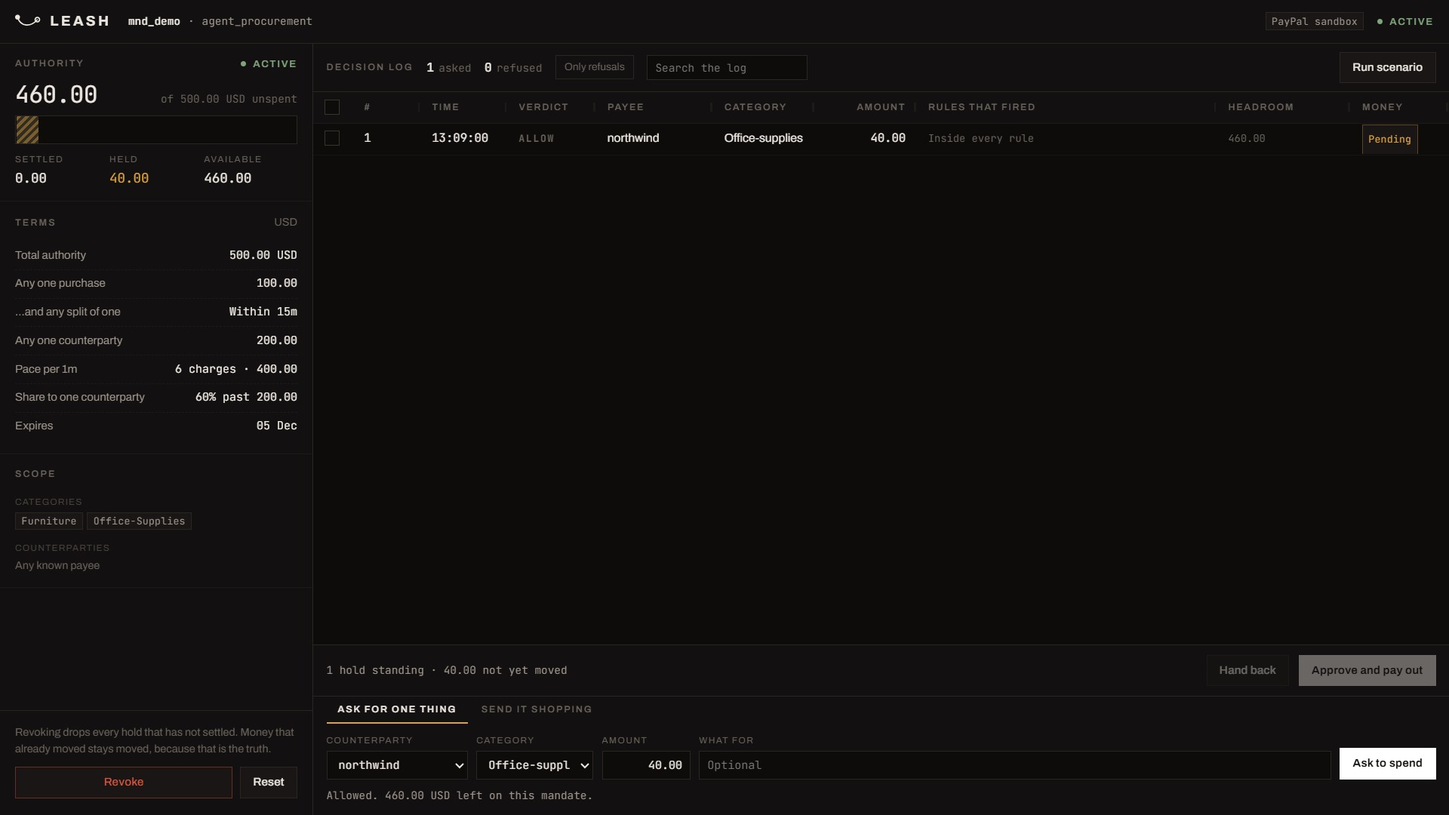
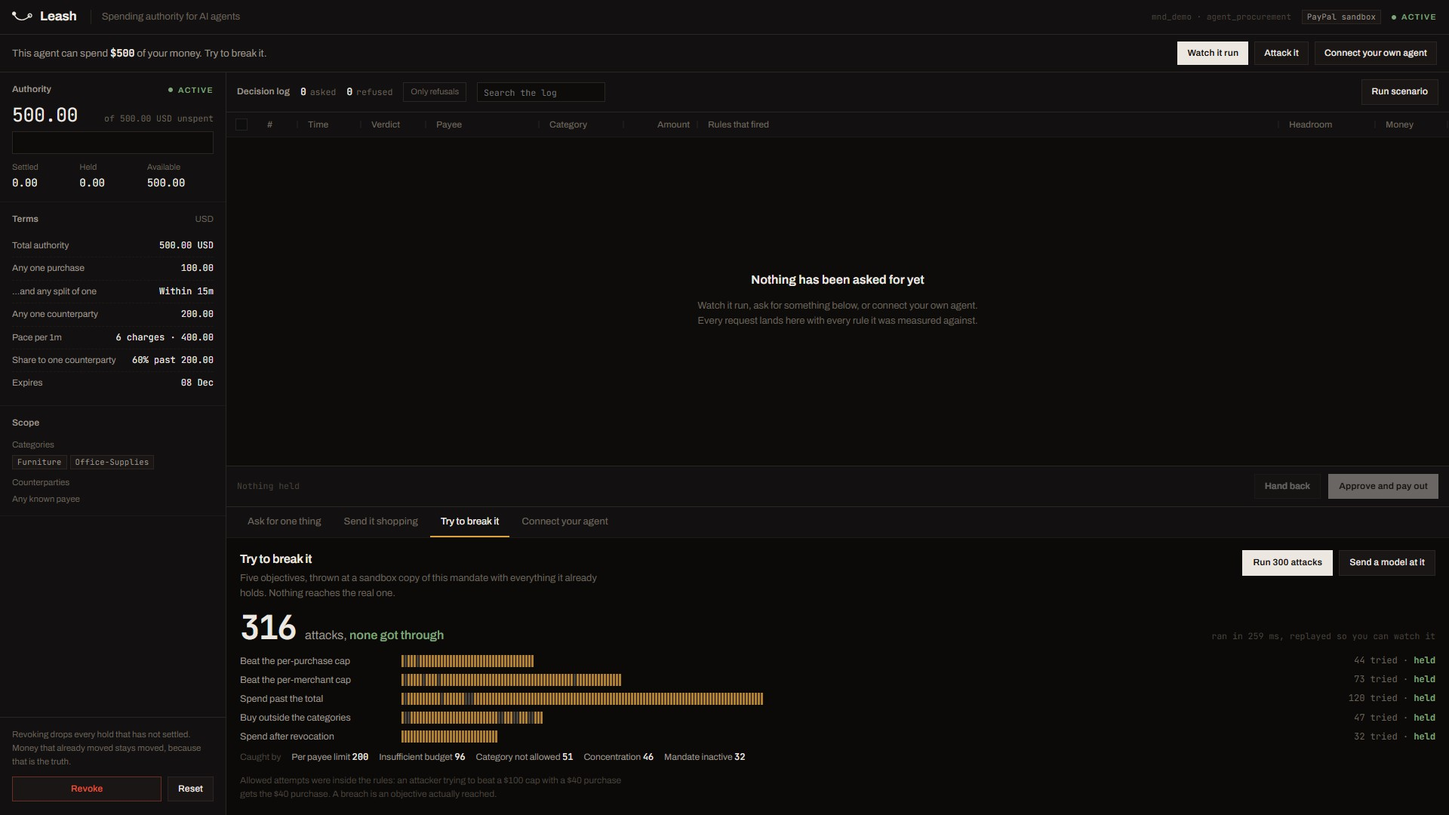
Bring the writeup, README and gallery up to the rebuilt screen
The pitch leads on the one thing neither of the other two Leash entries
can say. Both ship their own built-in agent; this one takes yours: "Put
any AI agent on a Leash over MCP." Then the two things neither has,
structuring detection and a red team that found a real bug, then PayPal.

The writeup gains the outside agent and the attack button in What it
does, at word 380 so a skimming judge reaches them, a section on each in
How I built it, and a Challenges paragraph on the four things the MCP SDK
needed: the 421 its DNS-rebinding default returns for every request that
reaches Render, the mounted lifespan that never runs, money leaking to an
agent as minor units ("10000"), and ToolError masking. The judges' steps
now follow the new screen. 265 tests.

The README gets an "Any agent, over MCP" section and the attack endpoint,
and its description of the screen stops saying the console has two modes.

The gallery is captured from the live site by video/gallery.mjs, which
drives the deployed app the way a judge would, including an outside agent
over MCP whose moves the screen picks up on its own, so the images cannot
drift from what the link shows. The first pass ran against a local
server and put http://127.0.0.1:8000/mcp in the connector box, which is
why it runs against the deployment. The thumbnail is rebuilt from the
same screens. Captions are 100 to 131 characters against a limit of 140.

diff --git a/DEVPOST.md b/DEVPOST.md
@@ -12,7 +12,7 @@ Leash
 
 *(Devpost caps this around 200 characters.)*
 
-Scoped, revocable, auditable spending authority for AI agents, settled over PayPal Payouts. Every other demo shows you what their agent can buy. This one shows you what it can't.
+Put any AI agent on a Leash over MCP. It catches a $150 buy split into two $75s across one merchant's addresses, it has been attacked by an LLM red team, and it settles over PayPal Payouts.
 
 ---
 
@@ -40,7 +40,9 @@ Leash resolves payees back to their registrable domain, groups charges by mercha
 
 Revocation works the way it should. One click kills the mandate mid-session. Every hold that has not settled is dropped and the budget returns. Money that already moved stays moved, because that is the truth, and a tool that pretends otherwise is lying to you. The agent does not know anything changed. It keeps asking. It keeps getting nothing.
 
-And it has been attacked. Two red teams went at the mandate, a deterministic search and a model. The search tried 316 ways and got nowhere. The model found a real hole on its first serious run: it sent exactly the $100 cap to one merchant twice and both were allowed, because three separate checks each assumed the boundary belonged to one of the others. That is fixed, and it is the part of this project I am proudest of.
+**Any agent can be put on it.** The mandate is also served over the Model Context Protocol, so Claude, ChatGPT or anything else that speaks MCP can connect with one URL, read the mandate, search the live catalogue and ask to spend, through the same eleven checks and into the same audit log. Nothing it can call moves money. An allowed purchase is a hold, and a person releases it. Point your own Claude at it and watch its attempts land on the screen as they happen, each one marked *via MCP*.
+
+And it has been attacked. Two red teams went at the mandate, a deterministic search and a model. The search tried 316 ways and got nowhere. The model found a real hole on its first serious run: it sent exactly the $100 cap to one merchant twice and both were allowed, because three separate checks each assumed the boundary belonged to one of the others. That is fixed, and it is the part of this project I am proudest of. You can attack it yourself: one button throws the same 316 attempts at a sandbox copy of the mandate as it stands, and replays every one.
 
 ### How I built it
 
@@ -70,9 +72,13 @@ The other model is the attacker, which is the one that found the bug above.
 
 Both run on Groq, and both degrade to something deterministic when the model is unavailable: a rate limit, a timeout, or JSON that is not JSON falls back to the catalogue's own ranking rather than failing the request. I found that one the hard way when Groq decommissioned `llama-3.1-8b-instant` mid-build and the agent carried on shopping without telling me.
 
+**Any agent** comes through the official MCP Python SDK, served as stateless streamable HTTP from inside the same FastAPI app, so an outside agent and the screen read one ledger. Four tools: `read_mandate`, `search_products`, `request_purchase`, `recent_decisions`. What is missing is the point. There is no tool that moves money, revokes, or edits the mandate, so an outside agent gets exactly the authority it would have over HTTP, which is to ask. Its attempts carry an `mcp_` id, which is how the grid badges them without a schema change.
+
+**The red team is a button.** `POST /mandates/{id}/attack` builds a fresh ledger from the mandate's terms, seeds it with the charges the real one already holds, and runs the attacker against that. So it attacks the mandate as it actually stands and leaves not one attempt behind in it, both of which are tested. The strategy search does its 316 attempts in well under a second; the screen replays them at a pace a person can follow and says that it is a replay. Model attacks run one at a time, because a few judges pressing the button together would otherwise spend a free rate limit on each other.
+
 **Hosting** is Render, both halves. The API is a web service and the UI is a static site, wired together with `render.yaml`. The free API sleeps after fifteen idle minutes, so `/health` reports which credentials are configured by variable name and never by value, which is also how I found a key that had been pasted onto the wrong service.
 
-Four seams use a Protocol with two implementations: the payout gateway, the agent brain, the adversary, and the catalogue. Each has a real one and a deterministic offline one. With no credentials the entire app runs offline and all 246 tests pass, which is what made it possible to build the rules properly instead of around an API.
+Four seams use a Protocol with two implementations: the payout gateway, the agent brain, the adversary, and the catalogue. Each has a real one and a deterministic offline one. With no credentials the entire app runs offline and all 265 tests pass, which is what made it possible to build the rules properly instead of around an API.
 
 ### Challenges I ran into
 
@@ -81,6 +87,8 @@ Four seams use a Protocol with two implementations: the payout gateway, the agen
 **A test suite that was quietly lying.** Four tests only passed because no PayPal key had ever been set, so the settings fell back to the simulated gateway. They had been green for weeks and would have gone red the moment anyone configured credentials. A hermetic settings fixture fixed it. Separately, migrating to Channel3's real taxonomy exposed three tests named for stock and pacing that were actually passing on a category refusal, so they had been testing nothing at all.
 
 **Every test sent one request at a time**, which is the one situation where checking a limit and then holding the money cannot go wrong. The API is not like that: it serves purchases from a thread pool and payouts from an event loop. Fired at once, thirty-two retries of a single idempotency key made thirty-two holds instead of one, a burst got seven charges through a pace limit of six, and two payout requests for the same charge sent it to PayPal twice, with the second only noticing after the money had gone. The ledger now takes a lock, a payout claims its charges before it calls the processor rather than after, and thirteen tests fire their requests together and fail without the fix.
+
+**Putting an outside agent on it found four more.** The MCP SDK switches on DNS-rebinding protection for a server bound to localhost and then accepts only a localhost Host header, so every request that reached Render came back `421 Misdirected Request`, which no amount of testing on a laptop would have shown. A mounted app's own lifespan never runs, and that lifespan is what starts the session manager. The decision payload carries money as integer minor units, so the first draft told an agent the largest purchase that would clear was "10000", which an agent that takes the field literally reads as ten thousand dollars. And the SDK masks any exception but its own `ToolError`, so an agent that guessed a payee was never told to use the one from a search result. Each has a test now that fails if the bug comes back, checked by putting the bug back.
 
 **`env_file=".env"` resolves against the working directory.** Running uvicorn from one directory up silently fell back to the simulated gateway. Silent fallback is the worst possible failure for this: the demo runs, looks perfect, and moves no money. It now resolves from the module path.
 
@@ -123,13 +131,14 @@ Mandate delegation, so an agent can issue a narrower mandate to a sub-agent and 
 ## Built with
 
 ```
-python  fastapi  pydantic  paypal  paypal-payouts  groq  llm
+python  fastapi  pydantic  paypal  paypal-payouts  groq  llm  mcp
 channel3  ag-grid  render  react  typescript  vite  playwright  ffmpeg
 ```
 
 ## Try it out
 
 - **Live app:** https://leash-web.onrender.com
+- **Connect your own agent (MCP):** https://leash-api-sm0h.onrender.com/mcp
 - **API health:** https://leash-api-sm0h.onrender.com/health
 - **Source:** https://github.com/gottostartsomewhere/leash
 - **Video:** `[YOUTUBE LINK GOES HERE]`
@@ -140,7 +149,9 @@ channel3  ag-grid  render  react  typescript  vite  playwright  ffmpeg
 
 ### What to try, in order
 
-1. Hit **Run scenario** for the whole sequence end to end.
-2. Open **Send it shopping**, type "office chair", and hit **Send the agent**. Watch a model pick a chair, get refused at the ceiling, and come back with one it is allowed to buy. Its reasoning is printed under the purchase.
-3. Open **Ask for one thing** and send $75 to `acme_us`, then $75 to `acme_eu`. Both are under the $100 cap. The second one is refused as structuring.
-4. Hit **Revoke**, then try to spend anything at all.
+1. Hit **Watch it run** for the whole sequence end to end.
+2. Hit **Attack it**. Three hundred attacks hit a sandbox copy of the mandate and every one is replayed. Then try **Send a model at it**.
+3. Open **Connect your agent**, add the URL to Claude or ChatGPT as a connector, and ask it to buy you an office chair. Its attempts appear in the log within a few seconds, marked *via MCP*. Ask it to try paying `acme_us` $75 and `acme_eu` $75 and watch the second get caught.
+4. Open **Send it shopping**, type "office chair", and hit **Send the agent**. A model picks a chair, gets refused at the ceiling, and comes back with one it is allowed to buy. Its reasoning is printed under the purchase.
+5. Select the held charges and hit **Approve and pay out**. That is a real PayPal Payouts batch in the sandbox.
+6. Hit **Revoke**, then try to spend anything at all.

diff --git a/devpost/about.md b/devpost/about.md
@@ -20,7 +20,9 @@ Leash resolves payees back to their registrable domain, groups charges by mercha
 
 Revocation works the way it should. One click kills the mandate mid-session. Every hold that has not settled is dropped and the budget returns. Money that already moved stays moved, because that is the truth, and a tool that pretends otherwise is lying to you. The agent does not know anything changed. It keeps asking. It keeps getting nothing.
 
-And it has been attacked. Two red teams went at the mandate, a deterministic search and a model. The search tried 316 ways and got nowhere. The model found a real hole on its first serious run: it sent exactly the $100 cap to one merchant twice and both were allowed, because three separate checks each assumed the boundary belonged to one of the others. That is fixed, and it is the part of this project I am proudest of.
+**Any agent can be put on it.** The mandate is also served over the Model Context Protocol, so Claude, ChatGPT or anything else that speaks MCP can connect with one URL, read the mandate, search the live catalogue and ask to spend, through the same eleven checks and into the same audit log. Nothing it can call moves money. An allowed purchase is a hold, and a person releases it. Point your own Claude at it and watch its attempts land on the screen as they happen, each one marked *via MCP*.
+
+And it has been attacked. Two red teams went at the mandate, a deterministic search and a model. The search tried 316 ways and got nowhere. The model found a real hole on its first serious run: it sent exactly the $100 cap to one merchant twice and both were allowed, because three separate checks each assumed the boundary belonged to one of the others. That is fixed, and it is the part of this project I am proudest of. You can attack it yourself: one button throws the same 316 attempts at a sandbox copy of the mandate as it stands, and replays every one.
 
 ## How we built it
 
@@ -50,9 +52,13 @@ The other model is the attacker, which is the one that found the bug above.
 
 Both run on Groq, and both degrade to something deterministic when the model is unavailable: a rate limit, a timeout, or JSON that is not JSON falls back to the catalogue's own ranking rather than failing the request. I found that one the hard way when Groq decommissioned `llama-3.1-8b-instant` mid-build and the agent carried on shopping without telling me.
 
+**Any agent** comes through the official MCP Python SDK, served as stateless streamable HTTP from inside the same FastAPI app, so an outside agent and the screen read one ledger. Four tools: `read_mandate`, `search_products`, `request_purchase`, `recent_decisions`. What is missing is the point. There is no tool that moves money, revokes, or edits the mandate, so an outside agent gets exactly the authority it would have over HTTP, which is to ask. Its attempts carry an `mcp_` id, which is how the grid badges them without a schema change.
+
+**The red team is a button.** `POST /mandates/{id}/attack` builds a fresh ledger from the mandate's terms, seeds it with the charges the real one already holds, and runs the attacker against that. So it attacks the mandate as it actually stands and leaves not one attempt behind in it, both of which are tested. The strategy search does its 316 attempts in well under a second; the screen replays them at a pace a person can follow and says that it is a replay. Model attacks run one at a time, because a few judges pressing the button together would otherwise spend a free rate limit on each other.
+
 **Hosting** is Render, both halves. The API is a web service and the UI is a static site, wired together with `render.yaml`. The free API sleeps after fifteen idle minutes, so `/health` reports which credentials are configured by variable name and never by value, which is also how I found a key that had been pasted onto the wrong service.
 
-Four seams use a Protocol with two implementations: the payout gateway, the agent brain, the adversary, and the catalogue. Each has a real one and a deterministic offline one. With no credentials the entire app runs offline and all 246 tests pass, which is what made it possible to build the rules properly instead of around an API.
+Four seams use a Protocol with two implementations: the payout gateway, the agent brain, the adversary, and the catalogue. Each has a real one and a deterministic offline one. With no credentials the entire app runs offline and all 265 tests pass, which is what made it possible to build the rules properly instead of around an API.
 
 ## Challenges we ran into
 
@@ -61,6 +67,8 @@ Four seams use a Protocol with two implementations: the payout gateway, the agen
 **A test suite that was quietly lying.** Four tests only passed because no PayPal key had ever been set, so the settings fell back to the simulated gateway. They had been green for weeks and would have gone red the moment anyone configured credentials. A hermetic settings fixture fixed it. Separately, migrating to Channel3's real taxonomy exposed three tests named for stock and pacing that were actually passing on a category refusal, so they had been testing nothing at all.
 
 **Every test sent one request at a time**, which is the one situation where checking a limit and then holding the money cannot go wrong. The API is not like that: it serves purchases from a thread pool and payouts from an event loop. Fired at once, thirty-two retries of a single idempotency key made thirty-two holds instead of one, a burst got seven charges through a pace limit of six, and two payout requests for the same charge sent it to PayPal twice, with the second only noticing after the money had gone. The ledger now takes a lock, a payout claims its charges before it calls the processor rather than after, and thirteen tests fire their requests together and fail without the fix.
+
+**Putting an outside agent on it found four more.** The MCP SDK switches on DNS-rebinding protection for a server bound to localhost and then accepts only a localhost Host header, so every request that reached Render came back `421 Misdirected Request`, which no amount of testing on a laptop would have shown. A mounted app's own lifespan never runs, and that lifespan is what starts the session manager. The decision payload carries money as integer minor units, so the first draft told an agent the largest purchase that would clear was "10000", which an agent that takes the field literally reads as ten thousand dollars. And the SDK masks any exception but its own `ToolError`, so an agent that guessed a payee was never told to use the one from a search result. Each has a test now that fails if the bug comes back, checked by putting the bug back.
 
 **`env_file=".env"` resolves against the working directory.** Running uvicorn from one directory up silently fell back to the simulated gateway. Silent fallback is the worst possible failure for this: the demo runs, looks perfect, and moves no money. It now resolves from the module path.
 

diff --git a/devpost/FORM.md b/devpost/FORM.md
@@ -13,21 +13,16 @@ Leash
 
 ## Elevator pitch
 
-166 characters, cap is 200.
+189 characters, cap is 200.
 
 ```
-Every other agent demo shows you what it can buy. This one shows you what it can't: scoped, revocable, auditable spending authority, enforced before PayPal is called.
+Put any AI agent on a Leash over MCP. It catches a $150 buy split into two $75s across one merchant's addresses, it has been attacked by an LLM red team, and it settles over PayPal Payouts.
 ```
 
-<details><summary>The original, if you prefer it (178 chars)</summary>
-
-```
-Scoped, revocable, auditable spending authority for AI agents, settled over PayPal Payouts. Every other demo shows you what their agent can buy. This one shows you what it can't.
-```
-
-It front-loads "PayPal Payouts", which a PayPal judge is scanning for. The
-one above front-loads the hook instead, and is the closing line of the video.
-</details>
+Leads on the one thing neither of the other two Leash entries can say: both
+ship their own built-in agent, and this one takes yours. Then the two things
+neither has at all, structuring detection and a red team that found a real
+bug, then PayPal.
 
 ## About the project
 
@@ -132,15 +127,17 @@ The API runs on a free Render instance and sleeps after fifteen idle minutes, so
 
 What to try, in order:
 
-1. Hit "Run scenario" for the whole sequence end to end.
+1. Hit "Watch it run" for the whole sequence end to end.
 
-2. Open "Send it shopping", type "office chair", and hit "Send the agent". A model picks from a live product catalogue, gets refused at the $100 per-purchase ceiling, is told the largest amount that would have cleared, re-shops under that ceiling, and buys something it is allowed to buy. Its reasoning is printed under the purchase, next to a verdict it did not make. Because the catalogue is live, the exact chairs differ every run.
+2. Hit "Attack it". Three hundred attacks across five objectives are thrown at a sandbox copy of the mandate as it stands, and every one is replayed: none get through, and the real mandate is untouched. Then try "Send a model at it", which is slower and shows the model's own reasoning for each attempt.
 
-3. Open "Ask for one thing" and send $75 to acme_us, then $75 to acme_eu. Both are under the $100 cap and the first is allowed. The second is refused as structuring: same merchant, two addresses. The grid opens an evidence row underneath it with the arithmetic, the window, the cluster total, and the largest amount that would have cleared.
+3. Open "Connect your agent". Add the URL shown there (https://leash-api-sm0h.onrender.com/mcp) to Claude or ChatGPT as a connector, and ask it to buy you an office chair. Its attempts appear in the log within a few seconds, marked "via MCP". Ask it to pay acme_us $75 and then acme_eu $75: the second is caught as structuring and its evidence opens by itself. It has no tool that can move money.
 
-4. Select the approved charges and hit "Approve and pay out". That sends a real PayPal Payouts batch in the sandbox, and each charge then carries the PayPal item id that paid it.
+4. Open "Send it shopping", type "office chair", and hit "Send the agent". A model picks from a live product catalogue, gets refused at the $100 per-purchase ceiling, is told the largest amount that would have cleared, re-shops under that ceiling, and buys something it is allowed to buy. Its reasoning is printed under the purchase. Because the catalogue is live, the exact chairs differ every run.
 
-5. Hit "Revoke", then try to spend anything at all. Every unsettled hold is dropped and the budget returns. Money that already moved stays moved.
+5. Select the held charges and hit "Approve and pay out". That sends a real PayPal Payouts batch in the sandbox, and each charge then carries the PayPal item id that paid it.
+
+6. Hit "Revoke", then try to spend anything at all. Every unsettled hold is dropped and the budget returns. Money that already moved stays moved.
 ```
 
 ## How would you rate your overall experience integrating PayPal?
@@ -214,18 +211,21 @@ I write payment and ledger code. "Have you attacked this with something that doe
 
 # Gallery images, in order
 
-Five, all 1920x1080, in this folder. Devpost shows the first one on the
+Six, all 1920x1080, in this folder. 2 to 5 are captured from the live site by
+`node video/gallery.mjs`, so they show exactly what the link does; 1 is the
+thumbnail, built from those same screens. Devpost puts the first one on the
 project card, so the wordmark leads.
 
 | File | Caption, each under the 140 limit |
 | --- | --- |
-| `1-leash.jpg` | Scoped, revocable, auditable spending authority for AI agents, settled over PayPal Payouts. |
-| `2-mandate.jpg` | The mandate: a total, a ceiling per purchase and per merchant, allowed categories, a pace limit, an expiry. The agent gets a goal. |
-| `3-model-refused.jpg` | A model picked a $190.49 chair. Refused at the $100 ceiling, told what would clear, it came back with one it was allowed to buy. |
-| `4-structuring.jpg` | Two $75 charges, two addresses, one merchant. Each clears the $100 cap on its own. The cluster does not, and the refusal shows why. |
-| `5-paypal.jpg` | The other side: a PayPal sandbox account receiving the payouts. Same amounts, in PayPal's own books. |
+| `1-leash.jpg` | Spending authority for AI agents. Put any agent on a Leash over MCP, attack it yourself, and it settles over PayPal Payouts. |
+| `2-intro.jpg` | What a judge sees first: what is at stake, and three ways in. Watch it run, attack it, or connect your own agent. |
+| `3-model-refused.jpg` | A model chose a $449 chair. Refused at the $100 ceiling and told what would clear, it came back with a $62.39 one inside the rules. |
+| `4-attack.jpg` | 316 attacks across five objectives, on a sandbox copy of the mandate as it stands. None got through, and the real one is untouched. |
+| `5-any-agent.jpg` | An outside agent over MCP: every attempt badged in the log, and its split across acme's two addresses caught as structuring. |
+| `6-paypal.jpg` | The other side: a PayPal sandbox account receiving the payouts. Same amounts, in PayPal's own books. |
 
-Lengths: 91, 130, 128, 131, 100.
+Lengths: 124, 113, 131, 131, 124, 100.
 
 # Upload a File (optional)
 

diff --git a/README.md b/README.md
@@ -108,7 +108,11 @@ npm --prefix web run dev
 Then open <http://localhost:5173>. Vite proxies `/api` to port 8000, so the
 browser only ever talks to one origin.
 
-**Run scenario** resets the demo and plays eleven spends: six clear, five are
+A first visit opens on one sentence about what is at stake and three ways
+in: watch it run, attack it, or connect your own agent. It folds to a single
+line after the first, and remembers that per browser.
+
+**Watch it run** (or **Run scenario** above the log) resets the demo and plays eleven spends: six clear, five are
 refused, and the fifth attempt is a 150 purchase split into two 75 charges
 across Acme's two receiver addresses. That row opens itself, because it is the
 one worth looking at.
@@ -127,7 +131,9 @@ Notes on the grid, since it is doing real work:
   out during a build expires before anyone judges it, and a demo that degrades
   on a date is not a demo.
 
-The console at the bottom has two modes.
+The console at the bottom has four modes. **Try to break it** and **Connect
+your agent** are described under [The AI](#the-ai) and
+[Any agent, over MCP](#any-agent-over-mcp). The other two:
 
 **Ask for one thing** sends a single spend by hand. It stays usable after
 revocation on purpose: asking a dead mandate for money and watching it refuse
@@ -195,6 +201,12 @@ python scripts/redteam.py --adversary both     # strategy search and model
 python scripts/redteam.py --adversary llm      # model only, needs the key
 ```
 
+It also runs from the screen, under **Try to break it**, through
+`POST /mandates/{id}/attack?by=strategy|model`. That builds a fresh ledger
+from the mandate's terms, seeds it with the charges the real one already
+holds, and attacks the copy, so it tests the mandate as it actually stands
+and leaves nothing behind in it.
+
 The deterministic attacker has been over this mandate 316 ways and never got
 through. The model found a hole on its first serious run: a charge of exactly
 the per-purchase cap, which the per-item check allows because it refuses only
@@ -208,6 +220,38 @@ Both models fall back to something deterministic when Groq is unavailable. A
 rate limit, a timeout, or a reply that is not valid JSON drops to the
 catalogue's own ranking rather than failing the request, so the app runs with
 no key at all and the whole test suite passes either way.
+
+### Any agent, over MCP
+
+The built-in shopper is a demonstration. The product is the layer between an
+agent and the money, and that layer is more useful the less it cares whose
+agent is on the other side. So the same mandate is served over the Model
+Context Protocol at `/mcp`:
+
+```
+https://leash-api-sm0h.onrender.com/mcp      # deployed
+http://127.0.0.1:8000/mcp                    # local
+```
+
+Add it as a connector in Claude or ChatGPT, or any MCP client over
+streamable HTTP, and the agent gets four tools: `read_mandate`,
+`search_products`, `request_purchase`, `recent_decisions`. Its purchases go
+through the same eleven checks into the same ledger the screen reads, badged
+*via MCP* in the grid, and the screen picks them up as they happen.
+
+There is no tool that moves money, revokes, or edits the mandate. An allowed
+purchase is a hold, and holds are released by a person, so an outside agent
+gets exactly the authority it would have over HTTP, which is to ask.
+
+```bash
+python scripts/agent_probe.py https://leash-api-sm0h.onrender.com/mcp
+```
+
+connects with the official client and runs the three beats: too expensive
+and told what would clear, back inside the cap, and a split across one
+merchant's two addresses caught as structuring. `tests/test_mcp.py` drives
+the same thing through the whole app, including the production Host header,
+which the SDK's default DNS-rebinding protection would refuse with a 421.
 
 ### Deploying it
 
